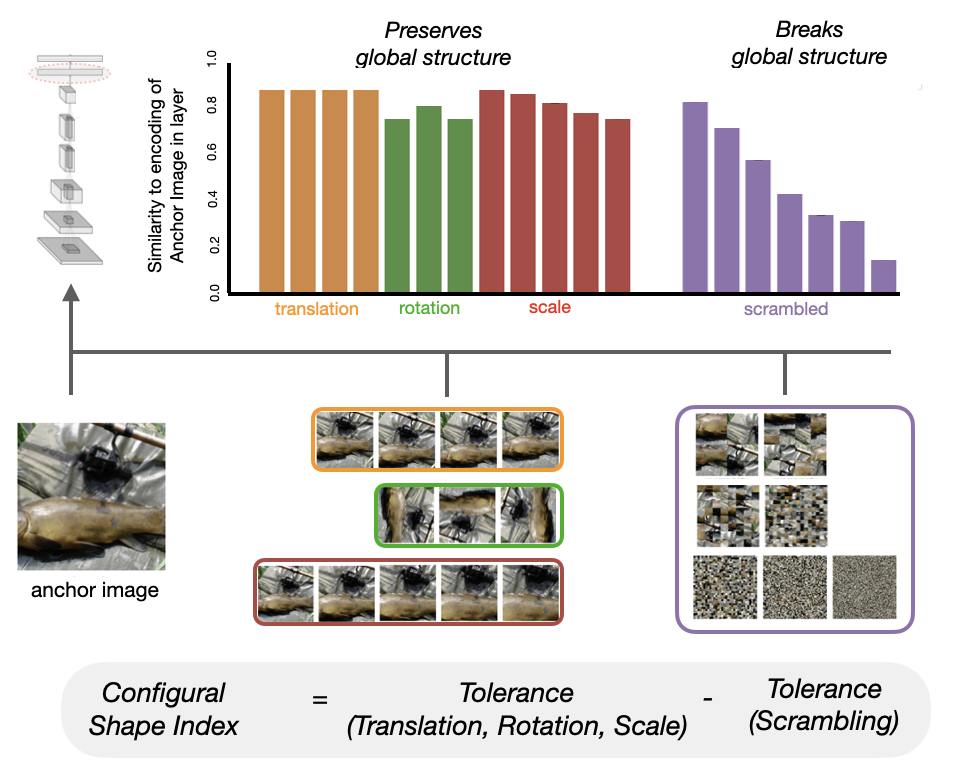
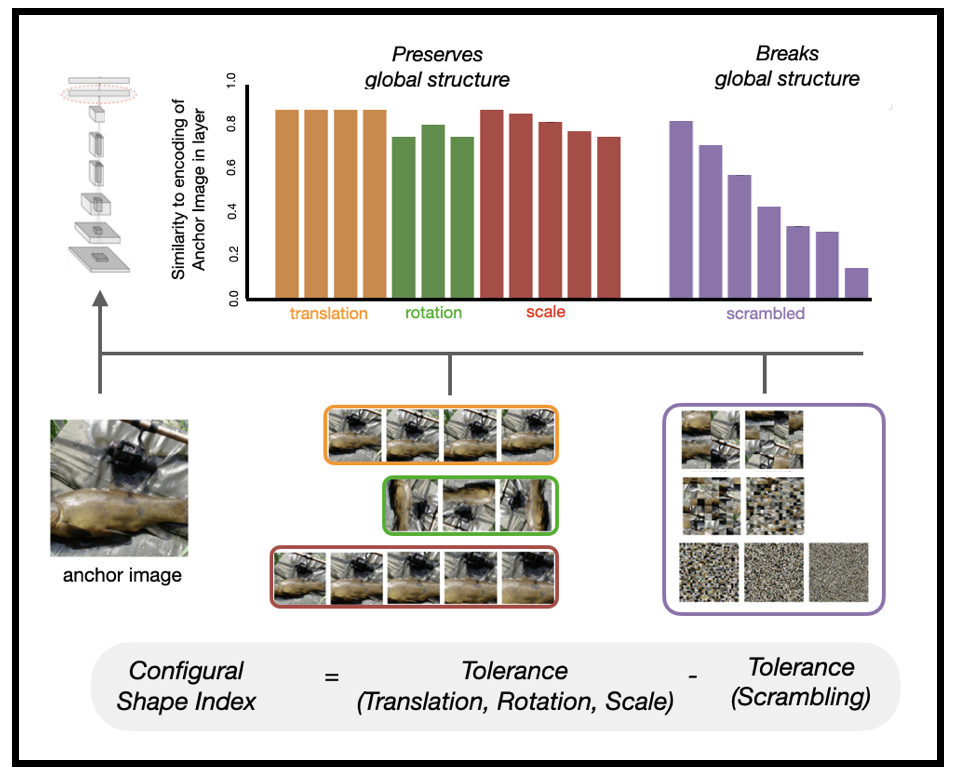
updated picture

diff --git a/_pages/research.md b/_pages/research.md
@@ -47,7 +47,7 @@ Collaborators: [Talia Konkle](http://konklab.fas.harvard.edu/) and [George Alvar
 
 * Doshi, F. R., Konkle, T., & Alvarez, G.A. (2024). [*Quantifying the Quality of  Shape and Texture in Deep Neural Network Models.* In Vision Science Society, 2024](https://feziodoshi.github.io/files/vss_24.pdf)
 
-<img src="https://feziodoshi.github.io/images/configural_shape.png" alt="drawing" style="width:100%;height: auto;display: block;margin-left: auto;margin-right: auto;"/>
+<img src="https://feziodoshi.github.io/images/configural_shape.png" alt="drawing" style="width:70%;height: auto;display: block;margin-left: auto;margin-right: auto;"/>
 
 ## 4) Perceptual features as optimal proxies for intuitive physical reasoning:
 
